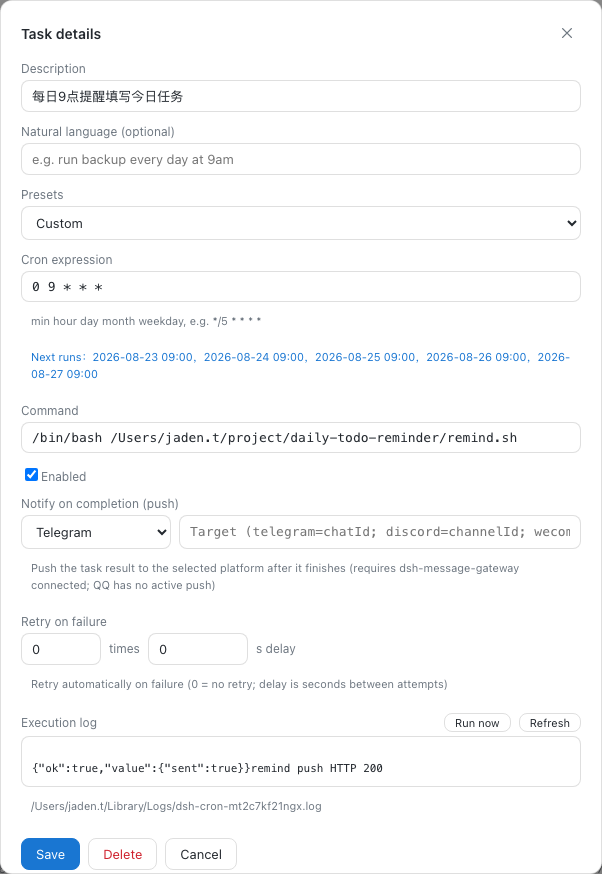
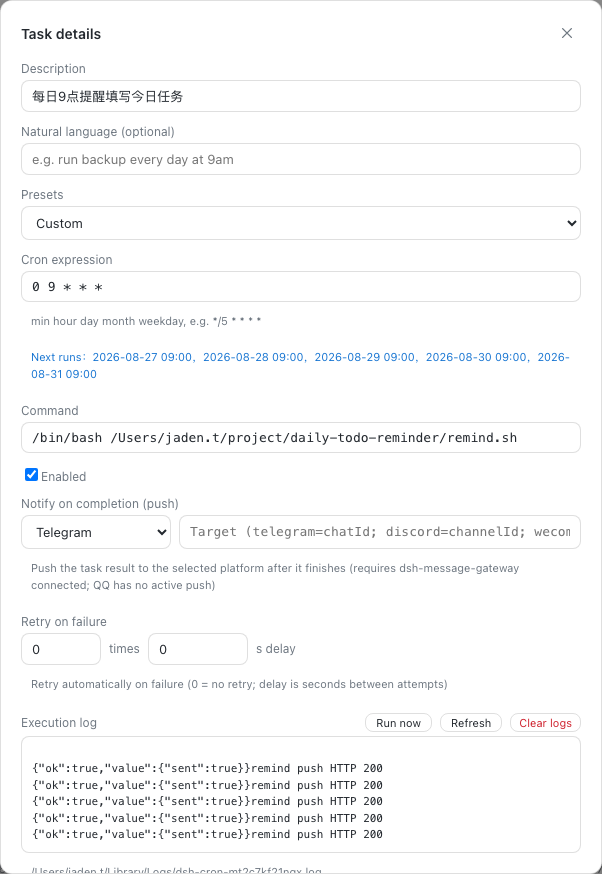
feat: task status indicators, clear log button, refresh docs & screenshots, bump to 0.1.6

diff --git a/src/host/routes.ts b/src/host/routes.ts
@@ -3,7 +3,8 @@
  * @module dsh-cron-panel/host/routes
  */
 
-import { readFile, writeFile } from 'node:fs/promises'
+import { readFile, writeFile, rm } from 'node:fs/promises'
+import { existsSync } from 'node:fs'
 import { homedir } from 'node:os'
 import { join, dirname } from 'node:path'
 import type { IncomingMessage, ServerResponse } from 'node:http'
@@ -158,6 +159,25 @@ async function readLogTail(file: string): Promise<string[]> {
   return lines.slice(-120)
 }
 
+/** 读取日志文件最后一条执行状态（ok/err/none）。 */
+async function detectLastStatus(file: string | null): Promise<'ok' | 'err' | 'none'> {
+  if (!file) return 'none'
+  try {
+    const lines = await readLogTail(file)
+    if (lines.length === 0) return 'none'
+    // 逆序查找包含退出码或错误信息的末尾行
+    for (let i = lines.length - 1; i >= 0; i--) {
+      const line = lines[i].trim()
+      if (!line) continue
+      if (/error|failed|exception|fatal|panic|failure|找不到|未找到/i.test(line)) return 'err'
+      if (line.includes('exit: 0') || line.includes('status: ok') || line.includes('done') || line.includes('success')) return 'ok'
+    }
+    return 'ok'
+  } catch {
+    return 'none'
+  }
+}
+
 /** 注册 /cron-panel 各路由。 */
 export function registerCronPanelRoutes(ctx: Context, runner: CronRunner): () => void {
   return ctx.webServer.register({
@@ -181,6 +201,17 @@ export function registerCronPanelRoutes(ctx: Context, runner: CronRunner): () =>
       try {
         if (path === '/cron-panel/list') {
           const view = await readCrontab(runner)
+          // 附带每条任务的最近执行状态指示
+          for (const entry of view.entries) {
+            let logFile: string | null = null
+            if (entry.managed) {
+              logFile = logPathFor(entry.id)
+            } else if (entry.command) {
+              const m = entry.command.match(/>>\s*(\S+)/)
+              logFile = m === null ? null : m[1]
+            }
+            entry.lastStatus = await detectLastStatus(logFile)
+          }
           json(res, { ok: true, value: view satisfies CronView })
           return
         }
@@ -269,6 +300,31 @@ export function registerCronPanelRoutes(ctx: Context, runner: CronRunner): () =>
           }
           const lines = await readLogTail(file)
           json(res, { ok: true, value: { path: file, lines } })
+          return
+        }
+        if (path === '/cron-panel/clear-log') {
+          // 清空日志文件
+          const entry = payload as Partial<CronEntry> | null
+          if (entry === null || typeof entry !== 'object' || typeof entry.id !== 'string') {
+            json(res, { ok: false, error: { code: 'internal', message: 'malformed entry' } })
+            return
+          }
+          let file: string | null = null
+          if (entry.managed === true) {
+            file = logPathFor(entry.id)
+          } else if (typeof entry.command === 'string') {
+            const m = entry.command.match(/>>\s*(\S+)/)
+            file = m === null ? null : m[1]
+          }
+          if (file !== null) {
+            try {
+              await writeFile(file, '', 'utf8')
+            } catch (error) {
+              json(res, { ok: false, error: { code: 'internal', message: String(error) } })
+              return
+            }
+          }
+          json(res, { ok: true, value: { output: '已清空日志' } satisfies OpResult })
           return
         }
         if (path === '/cron-panel/update' || path === '/cron-panel/delete') {

diff --git a/src/client/i18n.ts b/src/client/i18n.ts
@@ -66,6 +66,8 @@ const DICTS: Record<Lang, Dict> = {
     'nl.unrecognized': '未能识别，请手动填写表达式',
     'detail.logs': '执行记录',
     'detail.logs.refresh': '刷新',
+    'detail.logs.clear': '清空日志',
+    'detail.logs.clearConfirm': '确认清空该任务的执行日志？',
     'detail.logs.empty.managed': '暂无执行记录，任务执行后自动记录',
     'detail.logs.empty.system': '该命令未重定向日志，无法查看执行记录',
   },
@@ -124,6 +126,8 @@ const DICTS: Record<Lang, Dict> = {
     'nl.unrecognized': 'Could not parse — fill in the expression manually',
     'detail.logs': 'Execution log',
     'detail.logs.refresh': 'Refresh',
+    'detail.logs.clear': 'Clear logs',
+    'detail.logs.clearConfirm': 'Are you sure you want to clear execution logs for this task?',
     'detail.logs.empty.managed': 'No logs yet — recorded automatically after each run',
     'detail.logs.empty.system': 'This command does not redirect output to a log file',
   },
@@ -182,6 +186,8 @@ const DICTS: Record<Lang, Dict> = {
     'nl.unrecognized': 'No se pudo interpretar — rellena la expresión manualmente',
     'detail.logs': 'Registro de ejecución',
     'detail.logs.refresh': 'Actualizar',
+    'detail.logs.clear': 'Limpiar registros',
+    'detail.logs.clearConfirm': '¿Seguro que desea limpiar los registros de esta tarea?',
     'detail.logs.empty.managed': 'Aún sin registros — se graban automáticamente tras cada ejecución',
     'detail.logs.empty.system': 'Este comando no redirige la salida a un archivo de registro',
   },

diff --git a/src/client/Panel.tsx b/src/client/Panel.tsx
@@ -31,6 +31,10 @@ const STYLE = `
 .dsh-cron-item { display:flex; align-items:center; gap:6px; padding:5px 10px; cursor:pointer;
   border-radius:6px; margin:0 4px; }
 .dsh-cron-item:hover { background:var(--cp-hover); }
+.dsh-cron-status-dot { width:6px; height:6px; border-radius:50%; flex:none; }
+.dsh-cron-status-dot.ok { background:#2ea043; }
+.dsh-cron-status-dot.err { background:#cf222e; }
+.dsh-cron-status-dot.none { background:var(--cp-muted); opacity:0.4; }
 .dsh-cron-item .expr { font-family:ui-monospace,SFMono-Regular,Menlo,monospace; font-size:11px;
   color:var(--cp-accent); white-space:nowrap; flex:none; }
 .dsh-cron-item .cmd { flex:1; min-width:0; white-space:nowrap; overflow:hidden;
@@ -154,9 +158,11 @@ export function CronPanel(props: {
 /** 单条任务行。 */
 function CronRow(props: { entry: CronEntry; onOpen: (entry: CronEntry) => void }): React.ReactElement {
   const { entry, onOpen } = props
+  const st = entry.lastStatus ?? 'none'
   return (
     <div className="dsh-cron-item" title={entry.description || entry.command}
       onClick={() => onOpen(entry)}>
+      <span className={`dsh-cron-status-dot ${st}`} />
       <span className={`expr${entry.enabled ? '' : ' off'}`}>{entry.expr}</span>
       <span className={`cmd${entry.enabled ? '' : ' off'}`}>{entry.command}</span>
       {!entry.enabled ? <span className="del">✕</span> : null}

diff --git a/src/client/DetailOverlay.tsx b/src/client/DetailOverlay.tsx
@@ -364,6 +364,18 @@ export function DetailOverlay(props: {
                 style={{ padding: '2px 10px', fontSize: 11 }}>
                 {t('detail.logs.refresh')}
               </button>
+              {entry && entry.managed ? (
+                <button type="button" className="dsh-cron-btn danger" disabled={logsBusy}
+                  onClick={async () => {
+                    if (window.confirm(t('detail.logs.clearConfirm'))) {
+                      await api.clearLogs(entry)
+                      void loadLogs()
+                    }
+                  }}
+                  style={{ padding: '2px 8px', fontSize: 11 }}>
+                  {t('detail.logs.clear')}
+                </button>
+              ) : null}
             </label>
             {runOutput !== null ? (
               <div className="dsh-cron-logbox" style={{ marginTop: 6 }}>

diff --git a/src/client/api.ts b/src/client/api.ts
@@ -47,6 +47,10 @@ export class CronPanelApi {
     return this.post('/cron-panel/logs', entry)
   }
 
+  clearLogs(entry: CronEntry): Promise<Envelope<OpResult>> {
+    return this.post('/cron-panel/clear-log', entry)
+  }
+
   /** 下一次执行时间预览。 */
   next(expr: string): Promise<Envelope<{ next: string[] }>> {
     return this.post('/cron-panel/next', { expr })

diff --git a/src/core/types.ts b/src/core/types.ts
@@ -22,6 +22,8 @@ export interface CronEntry {
   retries?: number
   /** 重试间隔（秒）。 */
   retryDelaySec?: number
+  /** 最近一次执行状态（根据日志分析）：'ok' | 'err' | 'none'。 */
+  lastStatus?: 'ok' | 'err' | 'none'
 }
 
 /** crontab 解析视图。 */

diff --git a/README.es.md b/README.es.md
@@ -7,7 +7,8 @@ Un panel de tareas programadas para la GUI web de DSH: se sitúa entre el select
 ## Características
 
 - **Panel lateral**: debajo del selector de workspace y encima de los ajustes; ➕ en la cabecera para crear, ▾ para contraer (se pliega a una barra de título fina; el estado se guarda)
-- **Secciones separadas**: tareas de DSH (creadas desde el panel, marcadas) y tareas del sistema (entradas crontab existentes) se muestran por separado
+- **Secciones separadas e indicadores de estado**: las tareas de DSH y del sistema se muestran por separado, con puntos indicadores de estado (🟢 éxito / 🔴 error / ⚪ no ejecutado aún)
+- **Registros de ejecución y limpieza en un clic**: las tareas registran automáticamente con actualización en vivo y botón para limpiar registros y evitar acumulación
 - **Creación por lenguaje natural**: escribe «ejecutar copia cada día a las 9am», «limpiar temporales cada 30 minutos», «cada lunes a las 20h» y se parsea automáticamente a una expresión cron (chino e inglés, más de 17 patrones); también se admiten expresiones manuales
 - **Detalles a pantalla completa**: haz clic en una tarea para abrir una superposición sobre la conversación, cierra con la ✕ arriba a la derecha; editar / guardar / eliminar / activar
 - **Vista previa de la próxima ejecución**: al editar, se muestran automáticamente las próximas 5 ejecuciones a partir de la expresión cron (evita errores)
@@ -15,7 +16,7 @@ Un panel de tareas programadas para la GUI web de DSH: se sitúa entre el select
 - **Ejecutar ahora**: en los detalles de la tarea, pulse "Ejecutar ahora" para ejecutar el comando una vez inmediatamente (sin programación cron) y ver el código de salida y la salida en tiempo real — verifique una tarea justo tras crearla en lugar de esperar su horario
 - **Reintento automático**: configure el número de reintentos y la espera entre intentos (el comando corre en un subshell; un código de salida fallido dispara el reintento)
 - **Copia de seguridad antes de escribir**: cada reescritura de crontab se antecede de una copia del contenido actual en `~/.local/share/dsh-cron-backups/` (conserva las 20 más recientes), de modo que los errores siempre se pueden revertir
-- **Registros de ejecución**: las tareas creadas desde el panel registran automáticamente (`~/Library/Logs/dsh-cron-<id>.log`); las tareas del sistema reutilizan su redirección de log existente; más recientes primero, con botón de actualizar
+
 - **Multilingüe**: sigue el idioma de la interfaz web de DSH (chino / inglés); los navegadores en español reciben automáticamente el texto en español; por defecto chino simplificado
 - Tema claro / oscuro siguiendo la GUI web de DSH
 

diff --git a/README.en.md b/README.en.md
@@ -7,7 +7,8 @@ A scheduled-tasks panel for the DSH Web GUI: sits between the workspace selector
 ## Features
 
 - **Sidebar panel**: below the workspace selector, above settings; ➕ on the header to create, ▾ to collapse (collapses to a slim title bar; state is persisted)
-- **Separate sections**: DSH tasks (created via the panel, managed with markers) and system tasks (existing crontab entries) are shown apart
+- **Separate sections & status indicators**: DSH tasks and system tasks are shown apart, with status indicator dots (🟢 success / 🔴 failure / ⚪ not run yet)
+- **Execution logs & one-click clear**: panel-created tasks log automatically with live refresh and a one-click "Clear logs" button to prevent file bloat
 - **Natural-language creation**: type “run backup every day at 9am”, “clean temp files every 30 minutes”, “every Monday at 8pm” and it is parsed into a cron expression automatically (Chinese & English, 17+ patterns); manual expressions also supported
 - **Full-screen details**: click a task to open a full-screen overlay over the conversation, close via the top-right ✕; edit / save / delete / enable-toggle supported
 - **Next-run preview**: while editing, the next 5 execution times are shown automatically from the cron expression (avoids typos)
@@ -15,7 +16,7 @@ A scheduled-tasks panel for the DSH Web GUI: sits between the workspace selector
 - **Run now**: in task details, click "Run now" to execute the command once immediately (not through cron scheduling) and see the exit code and output in real time — verify a task right after creating it instead of waiting for its schedule
 - **Auto-retry on failure**: configure the number of retries and the delay between attempts (the command runs in a subshell, so a failed exit code triggers a retry)
 - **Auto-backup before write**: every crontab rewrite is preceded by a backup of the current content to `~/.local/share/dsh-cron-backups/` (keeps the latest 20), so mistakes can always be rolled back
-- **Execution logs**: panel-created tasks log automatically (`~/Library/Logs/dsh-cron-<id>.log`); system tasks reuse their existing log redirection; newest first, refreshable
+
 - **Multilingual**: follows the DSH Web UI language (Chinese / English); Spanish browsers automatically get Spanish copy; defaults to Simplified Chinese
 - Light / dark theme follows the DSH Web GUI
 
